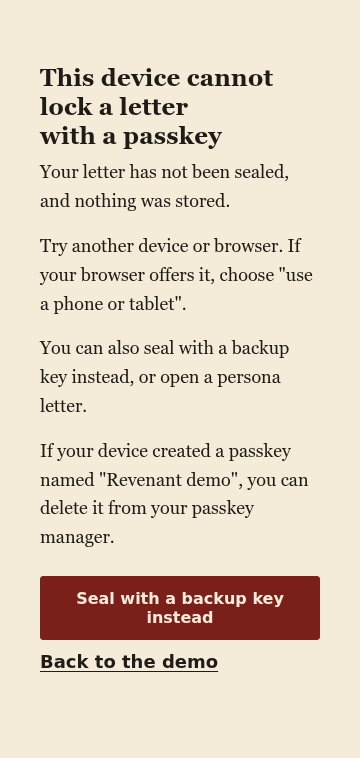
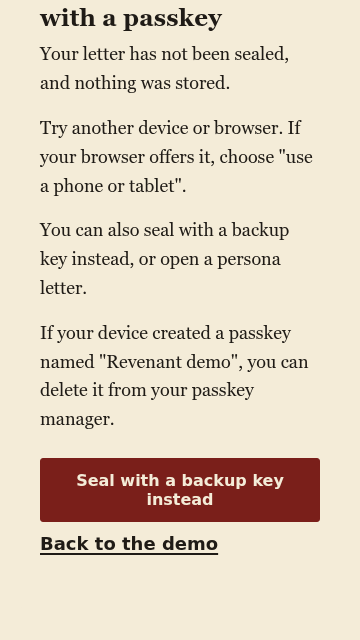
Replace owner-check screenshots with the final run and record budget output for #135

Changed region(s): [[0.0917, 0.0, 0.8861, 0.9062]]

diff --git a/src/components/live/owner-check-pr.md b/src/components/live/owner-check-pr.md
@@ -25,10 +25,20 @@ Throwaway Postgres, `npm run db:migrate`, `npm run seal-personas`, then the app 
 | 11 | Reveal | <img src="owner-check-shots/11-reveal.png" alt="Step 11 reveal at 1280 px" width="320"> | <img src="owner-check-shots/11-reveal-360.png" alt="Step 11 reveal at 360 px" width="320"> |
 | 13 | Cannot lock (no PRF) | <img src="owner-check-shots/13-unsupported.png" alt="Step 13 cannot lock at 1280 px" width="320"> | <img src="owner-check-shots/13-unsupported-360.png" alt="Step 13 cannot lock at 360 px" width="320"> |
 
-Screenshots are committed in `owner-check-shots/` next to this file. The re-run screenshots for steps 02, 07, 09, 10, 11 and 13 at 1280 px and 360 px are also in `/home/dopey/kiro/revenant-crew/dev-shots/issue-135/`.
+Screenshots are committed in `owner-check-shots/` next to this file. The images above are from the final run. The `/demo` entry page is also committed there as `01-entry.png` and `01-entry-360.png`.
+
+`node scripts/check-js-budget.mjs` output from the same build:
+
+```
+ok   /demo: 111.4 kB gzipped first load (budget 130 kB, 7 chunks)
+ok   /demo/live: 158.9 kB gzipped first load (budget 190 kB, 8 chunks)
+ok   /l/[id]: 177.2 kB gzipped first load (budget 190 kB, 10 chunks)
+```
 
 ## Findings
 
-- No unreadable, unstyled or off-contrast text was found, so no code changed in this task.
+- Final run: `/demo`, `/demo/live` and a sealed `/l/[id]` were opened at 1280 px and 360 px. No unreadable, unstyled or off-contrast text, stray box or unstyled control was found in the screenshots, so no code changed in this task.
+- The step 13 screenshots come from the first run of this task. The second run did not repeat step 13, and the build did not change between the runs.
+- The reveal runs marks, then passage, then close. Two controls are needed after the recall answers: "Show everything" and "Skip". The flow is in the browser run.
 - Recall: the first "Record my answers" press did not register after a typed guess. A "Look closer at the mark" button appeared instead. Marking "No answer" recorded the answer. Not fixed here; the owner may want to look at it.
 - Step 07: no letter text or figure value is in the sealed-page DOM.
